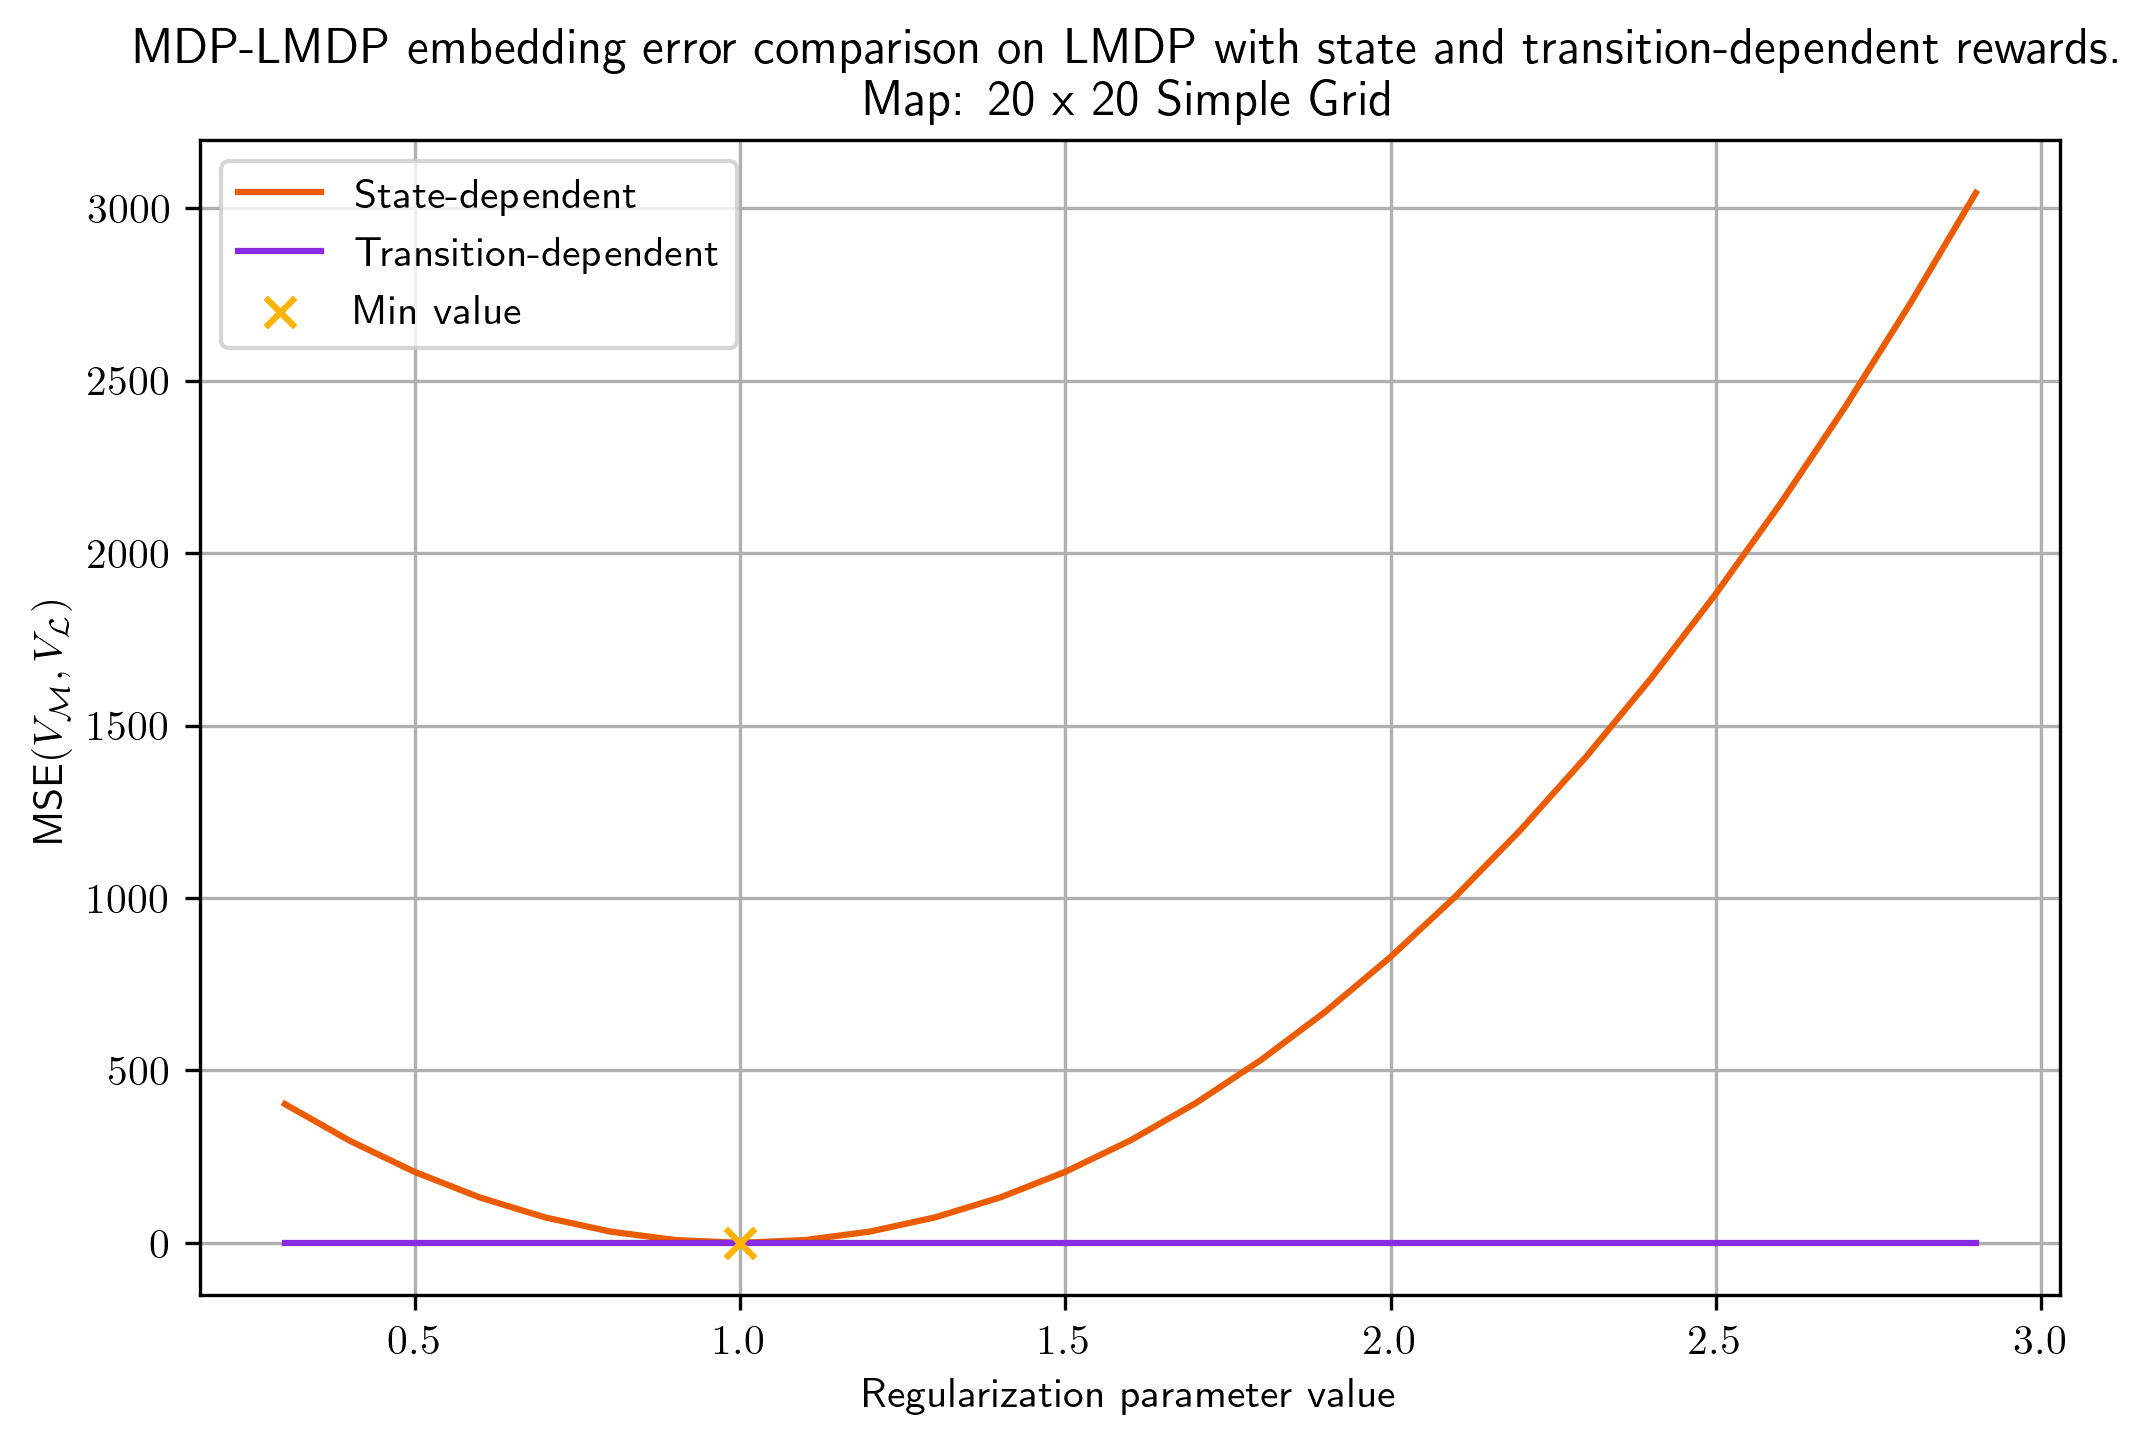
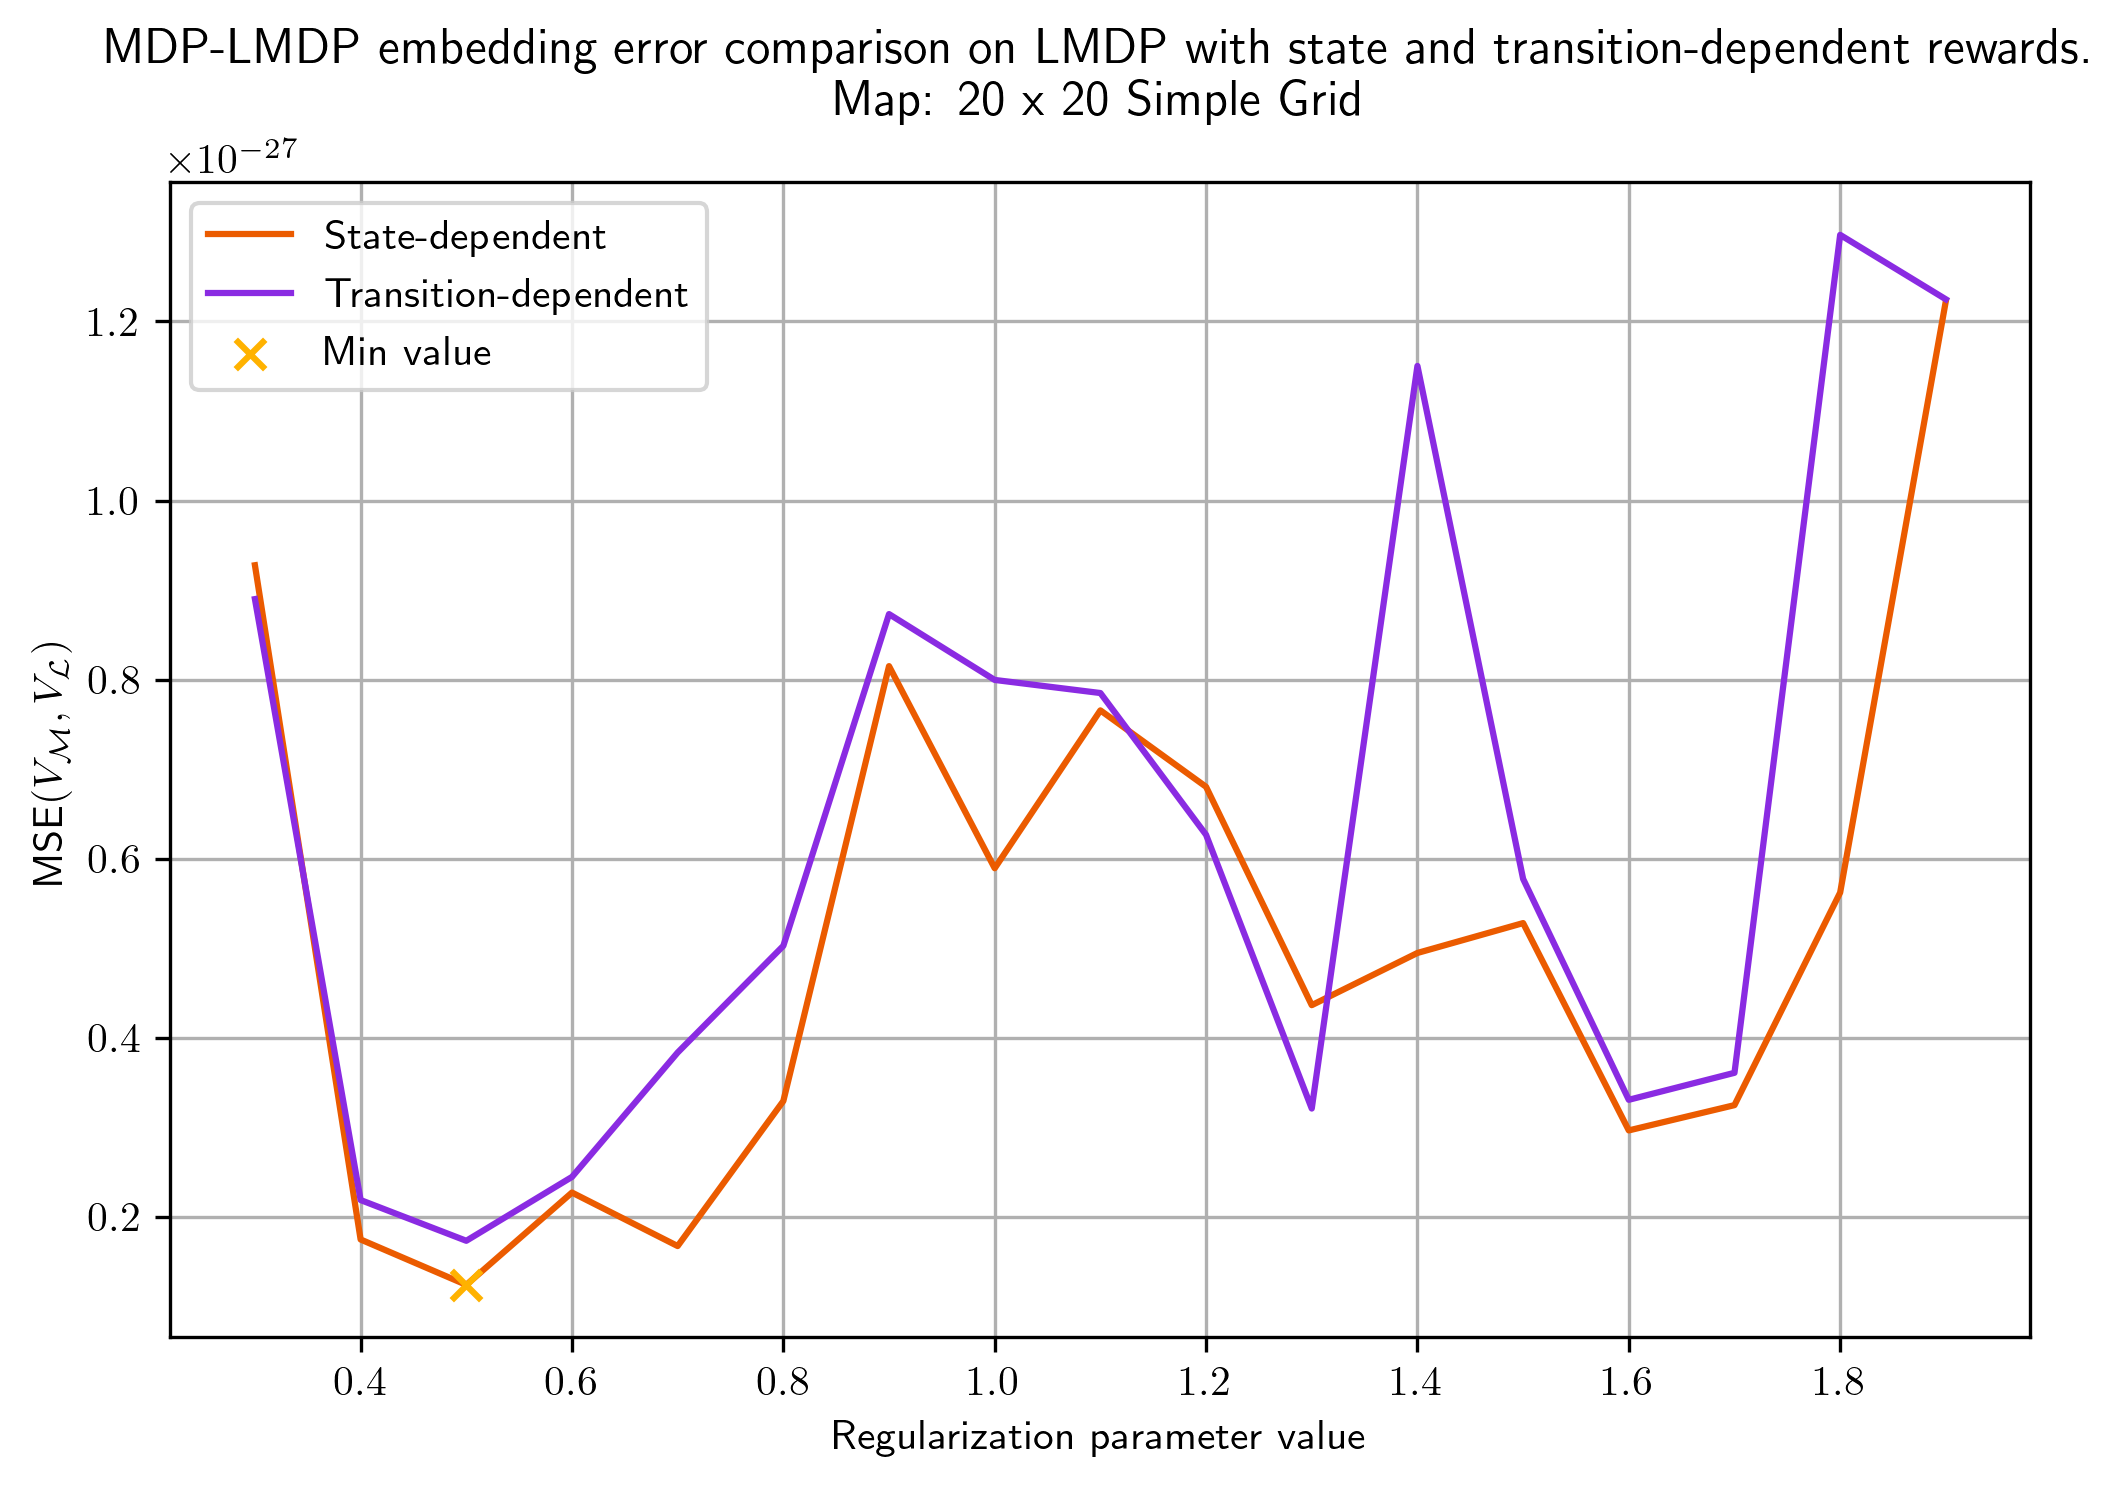
Fixed Todorov's embedding to acound for temperature parameters other than 1

diff --git a/main.py b/main.py
@@ -24,7 +24,8 @@ from math import ceil
 import seaborn as sns
 
 if __name__ == "__main__":
-    regularized_embedding_error_plot(map=Maps.MDP_NON_UNIFORM_REWARD, max_temp=3)
-    regularized_embedding_error_plot(map=Maps.CHALLENGE_DOOR, min_temp=0.3, max_temp=2)
-    regularized_embedding_error_plot(map=Map(grid_size=6), min_temp=0.3, max_temp=2)
+    # regularized_embedding_error_plot(map=Maps.MDP_NON_UNIFORM_REWARD, max_temp=3)
+    regularized_embedding_error_plot(map=Maps.SIMPLE_DOOR, min_temp=0.3, max_temp=2)
+    # regularized_embedding_error_plot(map=Map(grid_size=6), min_temp=0.3, max_temp=2)
+    # regularized_embedding_error_plot(map=Map(grid_size=20), min_temp=0.3, max_temp=2)
     

diff --git a/models/MDP.py b/models/MDP.py
@@ -366,10 +366,10 @@ class MDP(ABC):
                 # res = np.linalg.lstsq(B, y)
                 
                 
-                R = np.log(np.sum(np.exp(c)))
+                R = lmdp.lmbda * np.log(np.sum(np.exp(c / lmdp.lmbda)))
                 x = c - R * np.ones(shape=c.shape)
                 lmdp.R[state] = R
-                lmdp.P[state, ~zero_cols] = np.exp(x)
+                lmdp.P[state, ~zero_cols] = np.exp(x / lmdp.lmbda)
                 
         lmdp.R[self.num_non_terminal_states:] = np.sum(self.R[self.num_non_terminal_states:], axis=1) / self.num_actions
         z, lmdp.stats = lmdp.power_iteration()

diff --git a/utils/utils.py b/utils/utils.py
@@ -540,8 +540,8 @@ def regularized_embedding_error_plot(map: Map, min_temp: float = 0.1, max_temp: 
     
     palette = CustomPalette()
     plt.rcParams.update({"text.usetex": True})
-    plt.tight_layout()
     fig = plt.figure(figsize=(8, 5))
+    plt.tight_layout()
     
     plt.title(f"MDP-LMDP embedding error comparison on LMDP with state and transition-dependent rewards.\nMap: {map.name}")
     
